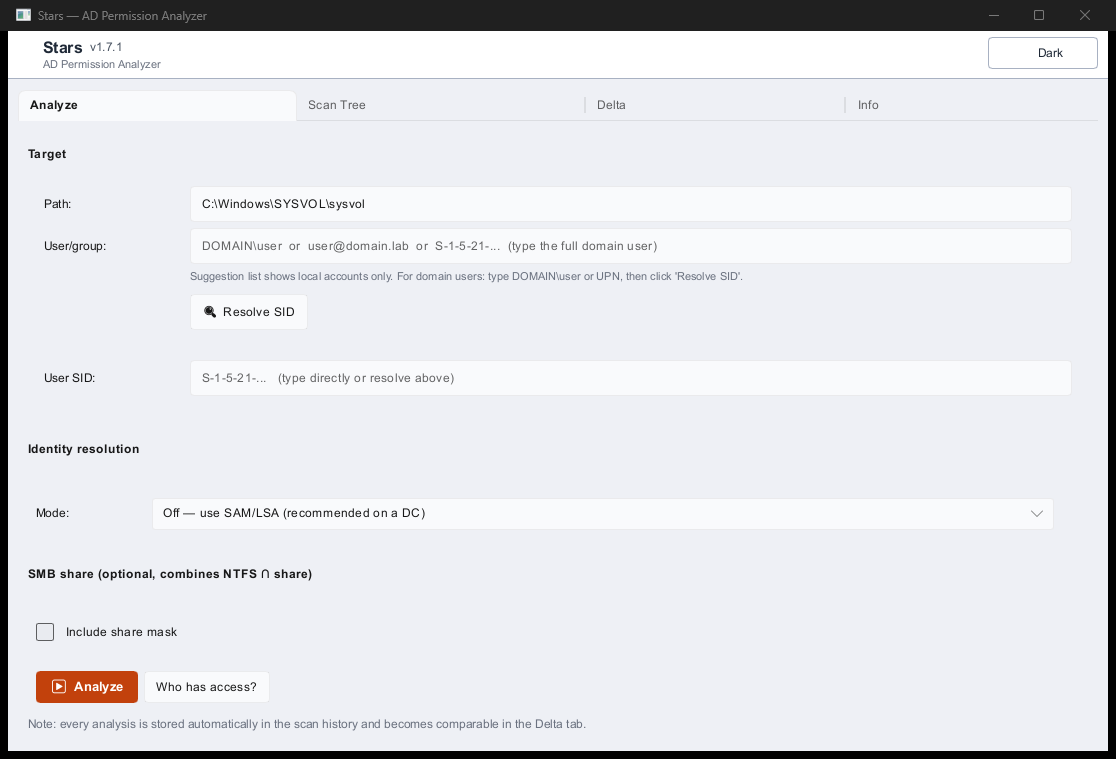
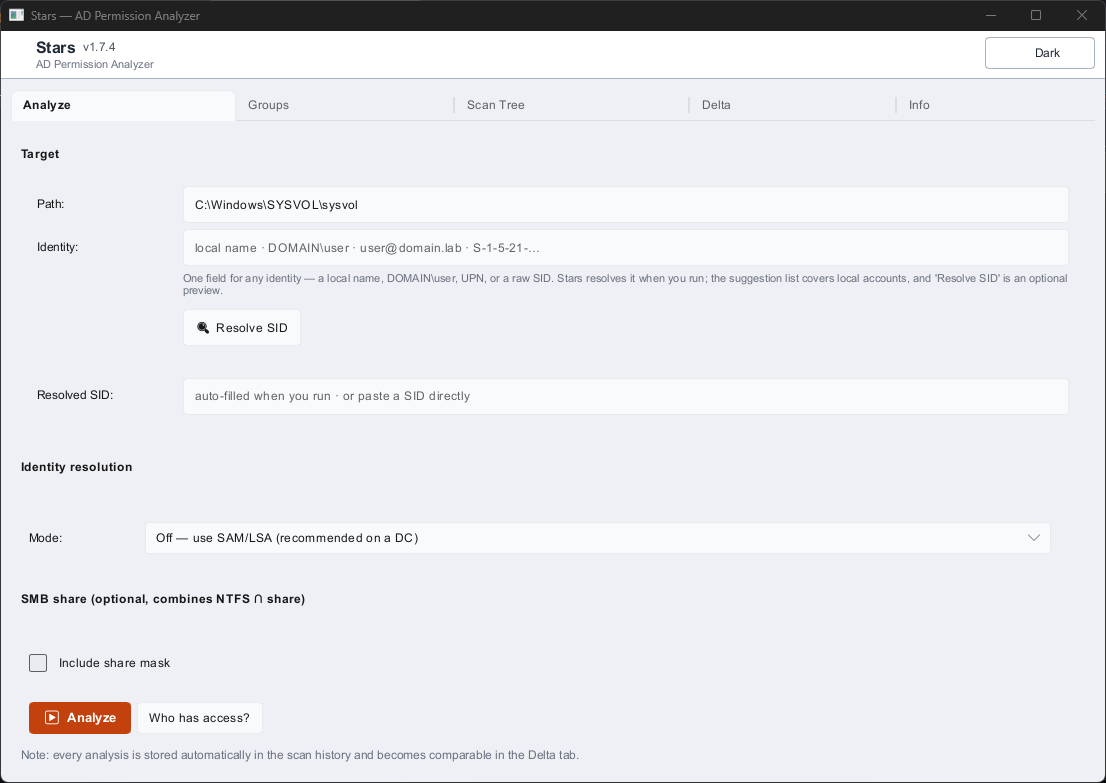
release: v1.7.4
Ship the group-membership view (CLI `adpa groups` + GUI `Groups` tab,
added in the previous commit) as v1.7.4.

- bump workspace version 1.7.3 → 1.7.4
- CHANGELOG: promote the group-membership entry to [1.7.4]
- docs realigned to the feature + version: README (five tabs, GUI/CLI
  overview, v1.7.4 download refs), user-guide (five tabs intro),
  technical-documentation (§5.8 membership view), can-stars-help-you
  (new use case), lab/verification (5-tab walkthrough)
- refresh both GUI screenshots to v1.7.4: Analyze (now five tabs + the
  single merged identity field) and the new Groups tab (privileged
  banner + nested membership list)

diff --git a/docs/technical-documentation.md b/docs/technical-documentation.md
@@ -519,6 +519,35 @@ Developers extending the GUI worker should implement any "LDAP search
 on demand" feature as an **explicit button with a spinner**, not as a
 keystroke trigger.
 
+### 5.8 The membership view (`groups`) — resolution without the engine
+
+The CLI `groups` command and the GUI `Groups` tab answer *"which groups
+is this identity in?"* directly, **without** running the permission
+engine (no path, no DACL, no effective rights). They reuse the principal
+pipeline above and stop at the resolution:
+
+- `PrincipalResolution::into_membership_report(ad_connected)` produces a
+  `MembershipReport` (`identity`, `ad_connected`, `memberships`
+  deduplicated by group SID, `diagnostics`). The CLI renderer and the GUI
+  worker consume the **same** structure, so the two surfaces cannot
+  diverge.
+- `PrincipalResolution::membership_diagnostics()` derives the
+  identity-/resolution-level markers from `engine_flags()` + the identity
+  — the same set §9 describes, minus the path-specific ones. It reuses
+  the engine-flag source (§5.5), so it cannot drift from the engine's
+  classification.
+- `GroupMembership::origin_label()` (in `adpa_core`) renders how a
+  membership arose ("direct", "primary group", "local group", or the
+  chain "via A → B") for both surfaces.
+- `privileged_group_role(&Sid)` flags membership in a well-known
+  privileged group — built-in aliases by their constant SID
+  (`S-1-5-32-544` …) and domain groups by their well-known RID suffix
+  (`-512` Domain Admins …). Pure SID matching against the already-resolved
+  list; **no** extra directory query.
+
+The view is one direction only (user → groups). Group → members (downward,
+with the `primaryGroupID` caveat) is a planned later step. See ADR 0053.
+
 ---
 
 ## 6. Permission engine — the AccessCheck reproduction

diff --git a/README.md b/README.md
@@ -16,7 +16,7 @@ For every user, the tool shows the effective access rights that actually apply t
 
 > **Stars is exclusively a read-and-analyze tool. It does not modify any permissions, groups, or AD objects.**
 
-![Stars Analyze tab (v1.7.3) — target path, identity, resolution mode, SMB share fields, and the two action buttons "Analyze" and "Who has access?"](docs/screenshots/stars-analyze-tab.png)
+![Stars Analyze tab (v1.7.4) — target path, identity, resolution mode, SMB share fields, and the two action buttons "Analyze" and "Who has access?"](docs/screenshots/stars-analyze-tab.png)
 
 ## Contents
 
@@ -116,7 +116,7 @@ Get the current Windows installer from the **[Releases page](https://github.com/
 
 System requirements: Windows 10, Windows 11, or Windows Server. No additional runtime needed.
 
-> ⚠️ **Antivirus false positive (every unsigned release, incl. v1.7.3).** Because the installer is **not yet code-signed**, Microsoft Defender — and some other engines — may flag it with a **generic, machine-learning heuristic** such as `Trojan:Win32/Wacatac.C!ml`. The `!ml` suffix means "flagged by an ML model," **not** a match against known malware; `Wacatac` is Defender's catch-all label and is the single most common false positive for new, unsigned, freshly-compiled binaries. It is triggered by the combination of *unsigned + zero reputation + AD/SMB enumeration behaviour* — exactly what a read-only permission auditor legitimately does.
+> ⚠️ **Antivirus false positive (every unsigned release, incl. v1.7.4).** Because the installer is **not yet code-signed**, Microsoft Defender — and some other engines — may flag it with a **generic, machine-learning heuristic** such as `Trojan:Win32/Wacatac.C!ml`. The `!ml` suffix means "flagged by an ML model," **not** a match against known malware; `Wacatac` is Defender's catch-all label and is the single most common false positive for new, unsigned, freshly-compiled binaries. It is triggered by the combination of *unsigned + zero reputation + AD/SMB enumeration behaviour* — exactly what a read-only permission auditor legitimately does.
 >
 > **This is a false positive, and you can prove it yourself:** verify the SHA256 (see below) against the `Stars-vX.Y.Z-Setup.exe.sha256` published next to the installer on the release page. A matching hash means the file is bit-for-bit the build GitHub Actions produced from this public source — by definition nothing could have been injected.
 >
@@ -127,13 +127,13 @@ System requirements: Windows 10, Windows 11, or Windows Server. No additional ru
 So you can confirm your download is bit-for-bit identical to the build produced by GitHub Actions:
 
 ```powershell
-$exe = "Stars-v1.7.3-Setup.exe"  # adapt to your version
+$exe = "Stars-v1.7.4-Setup.exe"  # adapt to your version
 $expected = (Get-Content "$exe.sha256").Split("  ")[0]
 $actual   = (Get-FileHash $exe -Algorithm SHA256).Hash.ToLower()
 if ($actual -eq $expected) { "OK — file matches" } else { "MISMATCH — do NOT use" }
 ```
 
-On WSL / Linux / macOS, `sha256sum -c Stars-v1.7.3-Setup.exe.sha256` works directly.
+On WSL / Linux / macOS, `sha256sum -c Stars-v1.7.4-Setup.exe.sha256` works directly.
 
 > **What the hash file gives you — and what it doesn't:** The hash protects against tampered downloads (mirror modification, MITM). It does **not** replace code signing — you verify the authenticity of the source through the GitHub repo itself, not through the hash. Code signing is planned; see [`docs/codesigning.md`](docs/codesigning.md) for status.
 
@@ -159,7 +159,7 @@ It consists of two programs:
 
 | Program | Description |
 |---------|-------------|
-| `adpa-gui.exe` | Graphical interface (GUI) with Analyze, Scan, and Delta views |
+| `adpa-gui.exe` | Graphical interface (GUI) with Analyze, Groups, Scan, and Delta views |
 | `adpa.exe` | Command-line interface (CLI) for scripting and automation |
 
 Both programs analyze the same data and use the same permission logic.
@@ -238,7 +238,7 @@ User max.muster → member of "Accounting" → member of "FileServer_Read"
 
 ### How is Stars started?
 
-Stars is distributed as a **setup installer** on the [release page](https://github.com/Birgerson/stars-ad-permission-analyzer/releases) — currently `Stars-v1.7.3-Setup.exe`. The installer places the application under `C:\Program Files\Stars\`, adds a "Stars" start menu entry, and installs **no background services** and **no auto-start components**.
+Stars is distributed as a **setup installer** on the [release page](https://github.com/Birgerson/stars-ad-permission-analyzer/releases) — currently `Stars-v1.7.4-Setup.exe`. The installer places the application under `C:\Program Files\Stars\`, adds a "Stars" start menu entry, and installs **no background services** and **no auto-start components**.
 
 > **Note on code signing:** The installer is currently **not code-signed**. Windows SmartScreen will warn on first launch ("Windows protected your PC — unrecognized publisher"). A code-signing certificate is planned but not yet in place — see [`docs/codesigning.md`](docs/codesigning.md). Until then, you can verify the integrity of the file via the SHA256 hash above.
 

diff --git a/CHANGELOG.md b/CHANGELOG.md
@@ -10,6 +10,17 @@ Versions prior to `v0.2.0-rc1` are summarized because no formal release notes ex
 
 ## [Unreleased]
 
+(No unreleased changes — see v1.7.4 below for the latest release.)
+
+---
+
+## [1.7.4] — 2026-06-30
+
+**New feature: the group-membership view.** A dedicated, read-only
+*"which groups is this user in?"* view — CLI `adpa groups` and a new GUI
+`Groups` tab — with privileged-membership flagging and the recursive nesting
+chain. No engine-behaviour changes to Analyze/Scan.
+
 ### Added
 
 - **Group-membership view — "which groups is this user in?"** A dedicated,

diff --git a/docs/user-guide.md b/docs/user-guide.md
@@ -112,8 +112,8 @@ access).
 
 ## First run — the GUI
 
-After starting Stars the main window shows **four tabs:** `Analyze`,
-`Scan Tree`, `Delta`, `Info`. **Recommended first workflow:**
+After starting Stars the main window shows **five tabs:** `Analyze`,
+`Groups`, `Scan Tree`, `Delta`, `Info`. **Recommended first workflow:**
 
 1. Open the **`Analyze`** tab — type an identity (user/group + SID)
    and a path. Hit "Analyze".

diff --git a/docs/lab/verification.md b/docs/lab/verification.md
@@ -715,7 +715,7 @@ H.4 was a compact platform smoke (3 CLI `analyze` calls). H.6 fills in the missi
 
 | # | Test on Server 2025 | Status | Result |
 |---|---|---|---|
-| H.6.1 | **GUI walkthrough** (`adpa-gui.exe`) — all 4 tabs, theme toggle | ⏳ **open** | `adpa-gui.exe` is deployed on tier0, but no manual click test executed. Covered by Block E (Server 2022, screenshots from June 6). |
+| H.6.1 | **GUI walkthrough** (`adpa-gui.exe`) — all 5 tabs (incl. Groups), theme toggle | ⏳ **open** | `adpa-gui.exe` is deployed on tier0, but no manual click test executed. Covered by Block E (Server 2022, screenshots from June 6). |
 | H.6.2 | **CLI `scan` recursive** + HTML + JSON + CSV export over 5105 paths | ✅ **successful** | See H.6.2.* below. |
 | H.6.3 | **JSON schema v3** with Round-10 `path_trustees` enum (`entry_kind: "ace"`/`"diagnostic"`) | ✅ **successful** | See H.6.3.* below. |
 | H.6.4 | **LDAP bind** against `tier0.lab` | ⚠️ **finding** (not a bug) | Server 2025 requires LDAP signing by default + the DC has no LDAPS cert without AD CS. Stars detects both errors honestly. See H.6.4.* below. |

diff --git a/docs/can-stars-help-you.md b/docs/can-stars-help-you.md
@@ -11,6 +11,7 @@ Stars fits if **at least one** of these is true for you:
 - You need to explain after an audit finding **why** a user has Modify (or why not).
 - You want a tool that changes **nothing** in AD, NTFS, or SMB — not even “just to fix it”.
 - You work with nested AD groups, local server groups (`BUILTIN\Administrators`, `Users`), Deny ACEs, and SMB shares whose restriction must be combined with the NTFS DACL.
+- You just need to know **which groups a user is in** — including the nested chain and whether any of them are *privileged* (Domain Admins and the like) — without picking a path. The `Groups` tab / `adpa groups` answers exactly that.
 - You want a permission snapshot of a directory tree (e.g. 5000 dirs) as CSV/JSON/HTML.
 
 ## When Stars is **not** the right tool